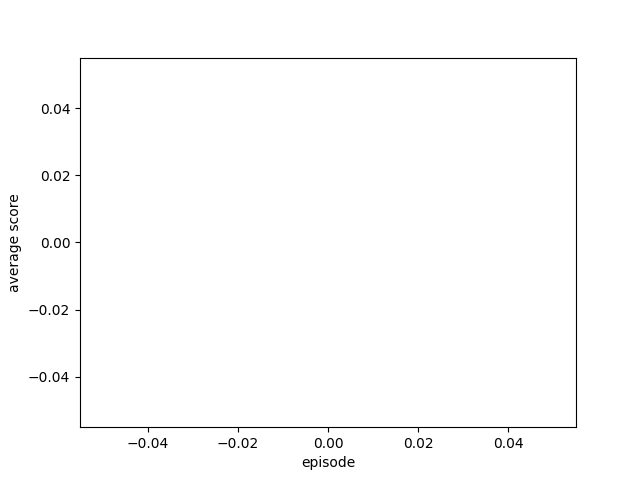
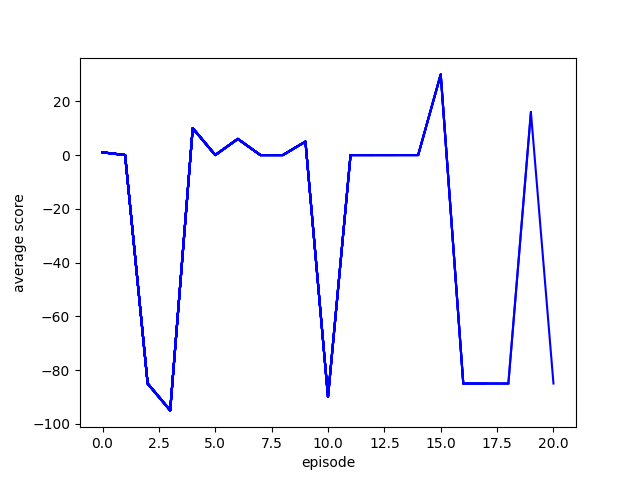
123

diff --git a/asdf.py b/asdf.py
@@ -62,23 +62,8 @@ class SmartCityEnvironment():
             return False
 
     def step(self, action):
-        if self.step_count == 250: # 1에피소드 완료
-            return self.get_state(), 0, False , {}
-        
         self.step_count += 1
         
-
-        # Update population and calculate happiness
-        self.update_population()
-        self.calculate_happiness()
-        # Adjust population influx and attrition based on happiness
-        self.adjust_population_flow()
-
-        # 수입 및 유지비용 계산
-        income = self.num_residential_areas * 25 + self.num_commercial_areas * 25 + self.num_industrial_areas * 75
-        maintenance = self.num_hospitals * 100 + self.num_parks * 150
-        self.capital += (income - maintenance)
-
         # 액션을 이동 방향과 건물 유형으로 변환
         direction = action // 5  # 이동 방향
         building_type = action % 5  # 건물 유형
@@ -89,6 +74,10 @@ class SmartCityEnvironment():
         
         new_x = self.agent_position[0] + move[0]
         new_y = self.agent_position[1] + move[1]
+
+        # Update population and calculate happiness
+        self.update_population()
+        # Adjust population influx and attrition based on happiness
         
         # 새 위치가 유효한지 확인하고, 가능하다면 이동 및 건물 배치 시도
       # 1. 이동할 수 있는 좌표인지 확인
@@ -116,28 +105,16 @@ class SmartCityEnvironment():
             # 1-2. 이동할 수 없는 좌표라면 좌표 이동x
             return self.get_state(), 0, True, {}  # 이동할 수 없는 행동을 취한 것에 대한 패널티
         
-        # Check for early termination conditions based on happiness
-        if self.happiness < 20:
-            return self.get_state(), -100, False, {}
+        # 수입 및 유지비용 계산
+        income = self.num_residential_areas * 25 + self.num_commercial_areas * 25 + self.num_industrial_areas * 75
+        maintenance = self.num_hospitals * 100 + self.num_parks * 150
+        self.capital += (income - maintenance)
 
-        # 보상 조건 수정
-        population_increase = self.population - self.last_population
+        if self.step_count == 250: # 1에피소드 완료
+            return self.get_state(), 0, False , {}
 
-        reward = 0
         
-        if population_increase > 0:
-            if population_increase >= 100:
-                reward += 20
-            elif population_increase >= 50:
-                reward += 10
-            elif population_increase >= 20:
-                reward += 5
-            elif population_increase >= 10:
-                reward += 1
-
-        self.last_population = self.population
-        
-        return self.get_state(), reward, True, {}
+        return self.get_state(), 10, True, {}
  
     def get_state(self):
         state = [
@@ -157,23 +134,6 @@ class SmartCityEnvironment():
         state.extend(buildings_state)
         return state
 
-    
-    def adjust_population_flow(self):
-        if self.happiness < 20:
-            pass
-        elif 20 <= self.happiness < 40:
-            self.influx_rate_multiplier = 0.2
-            self.attrition_rate_multiplier = 2.0
-        elif 40 <= self.happiness < 60:
-            self.influx_rate_multiplier = 0.5
-            self.attrition_rate_multiplier = 1.5
-        elif 60 <= self.happiness < 80:
-            self.influx_rate_multiplier = 1.5
-            self.attrition_rate_multiplier = 0.5
-        elif self.happiness >= 100:
-            self.influx_rate_multiplier = 2.0
-            self.attrition_rate_multiplier = 0.2
-
     def update_population(self):
         self.last_population = self.population
         
@@ -191,47 +151,6 @@ class SmartCityEnvironment():
 
         self.population = max(0, self.population - population_attrition)
         self.population = int(self.population)  # 인구수를 정수로 유지
-
-    def calculate_happiness(self):
-        happiness_change = 0
-        # 그리드월드 내의 모든 좌표에 대해 검사
-        for y in range(HEIGHT):
-            for x in range(WIDTH):
-                # 현재 좌표의 건물 유형 확인
-                current_building = self.get_building_type_at(x, y)
-                
-                # 주거공간 상하좌우 4칸 내 산업공간 확인
-                if current_building == 0:  # 주거공간
-                    if self.check_industrial_nearby(x, y):
-                        happiness_change -= 1
-                        
-                    # 상하좌우 4칸 내 상업공간 확인
-                    if not self.check_commercial_nearby(x, y):
-                        happiness_change -= 1
-                    else:
-                        happiness_change += 1
-                        
-                elif current_building == 2:  # 산업공간
-                    if not self.check_commercial_nearby(x, y):
-                        happiness_change -= 1
-                    else:
-                        happiness_change += 1
-        
-        # 주거공간 / 병원 수에 따른 행복도 조정
-        if self.num_hospitals > 0:
-            if (self.num_residential_areas // self.num_hospitals) < 5:
-                happiness_change -= 1
-            else:
-                happiness_change += 1
-        else:
-            pass
-    
-        # 공원 수에 따른 행복도 조정
-        happiness_change += self.num_parks
-        
-        # 행복도 업데이트
-        self.happiness += happiness_change
-        self.happiness = min(100, max(0, self.happiness))
     
     def get_building_type_at(self, grid_x, grid_y):
         """주어진 그리드 위치에 있는 건물의 유형을 반환합니다."""

diff --git a/b.py b/b.py
@@ -113,10 +113,10 @@ if __name__ == "__main__":
     # DQN 에이전트 생성
     agent = DQNAgent(state_size, action_size)
     scores, episodes = [], []
-    score_avg = 0
+    score = 0
 
     num_episode = 300
-    for e in range(num_episode):
+    for episode in range(num_episode):
         done = True
         score = 0
         # env 초기화
@@ -124,14 +124,13 @@ if __name__ == "__main__":
         state = np.reshape(state, [1, state_size])
         env.step_count = 0
         while done:
-
             # 현재 상태로 행동을 선택
             action = agent.get_action(state)
-            
+
             # 선택한 행동으로 환경에서 한 타임스텝 진행
             next_state, reward, done, info = env.step(action)
             next_state = np.reshape(next_state, [1, state_size])
-
+            
             score += reward
             # 리플레이 메모리에 샘플 <s, a, r, s'> 저장
             agent.append_sample(state, action, reward, next_state, done)
@@ -141,18 +140,18 @@ if __name__ == "__main__":
                 agent.train_model()
 
             state = next_state
-            if done:
-                # 각 에피소드마다 타깃 모델을 모델의 가중치로 업데이트
-                agent.update_target_model()
-                # 에피소드마다 학습 결과 출력
-                print("episode: {:3d} | score avg: {:3.2f} | memory length: {:4d} | epsilon: {:.4f}".format(
-                      e, score_avg, len(agent.memory), agent.epsilon))
-                # 에피소드마다 학습 결과 그래프로 저장
-                scores.append(score_avg)
-                episodes.append(e)
-                pylab.plot(episodes, scores, 'b')
-                pylab.xlabel("episode")
-                pylab.ylabel("average score")
-                pylab.savefig("./save_graph/graph.png")
+            
+        # 각 에피소드마다 타깃 모델을 모델의 가중치로 업데이트
+        agent.update_target_model()
+        # 에피소드마다 학습 결과 출력
+        print("episode: {:3d} | score: {:3.2f} | memory length: {:4d} | epsilon: {:.4f}".format(
+              episode, score, len(agent.memory), agent.epsilon))
+        # 에피소드마다 학습 결과 그래프로 저장
+        scores.append(score)
+        episodes.append(episode)
+        pylab.plot(episodes, scores, 'b')
+        pylab.xlabel("episode")
+        pylab.ylabel("average score")
+        pylab.savefig("./save_graph/graph.png")
 
 
